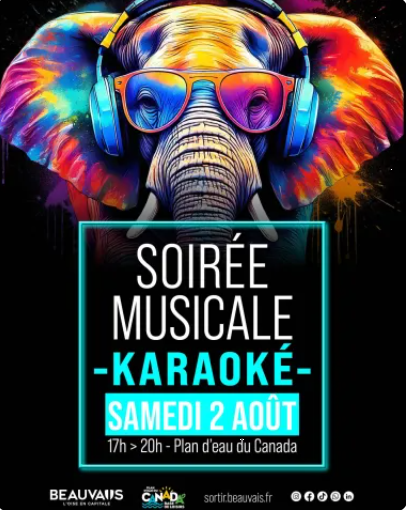
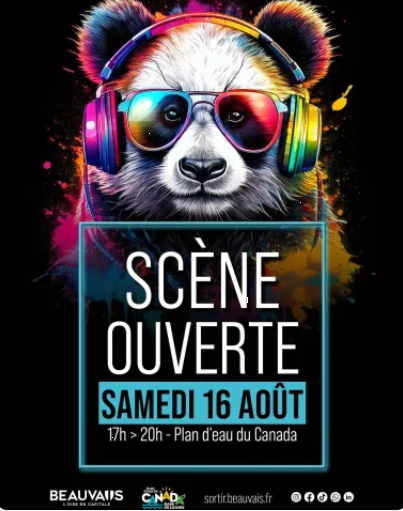
add news

diff --git a/src/components/actualités/Actualites.jsx b/src/components/actualités/Actualites.jsx
@@ -64,9 +64,12 @@ const Actualites = () => {
       <motion.div className="actualites" initial="hidden" whileInView="visible" variants={fadeInUp} viewport={{ once: true }}>
         <motion.div className='container-img1' variants={fadeInUp}>
           <div className='text-intro'>
-            <h1>Karaoké : chantez c’est l’été</h1>
+            <h1>Scènes Ouvertes</h1>
             <p>
               Venez chanter en plein air ! 🎤<br /><br />
+              Musique en plein air, au bord de l’eau... Venez profiter ! 
+              Vous ne pouvez pas être présent ? Pas d’inquiétude, ce n’est que le début ! 
+              Tout l’été, des soirées gratuites et festives vous attendent<br /><br />
               📍 Plan d’Eau du Canada<br />
               ⏰ De 17h à 20h<br />
               ☎ 03 44 79 38 08
